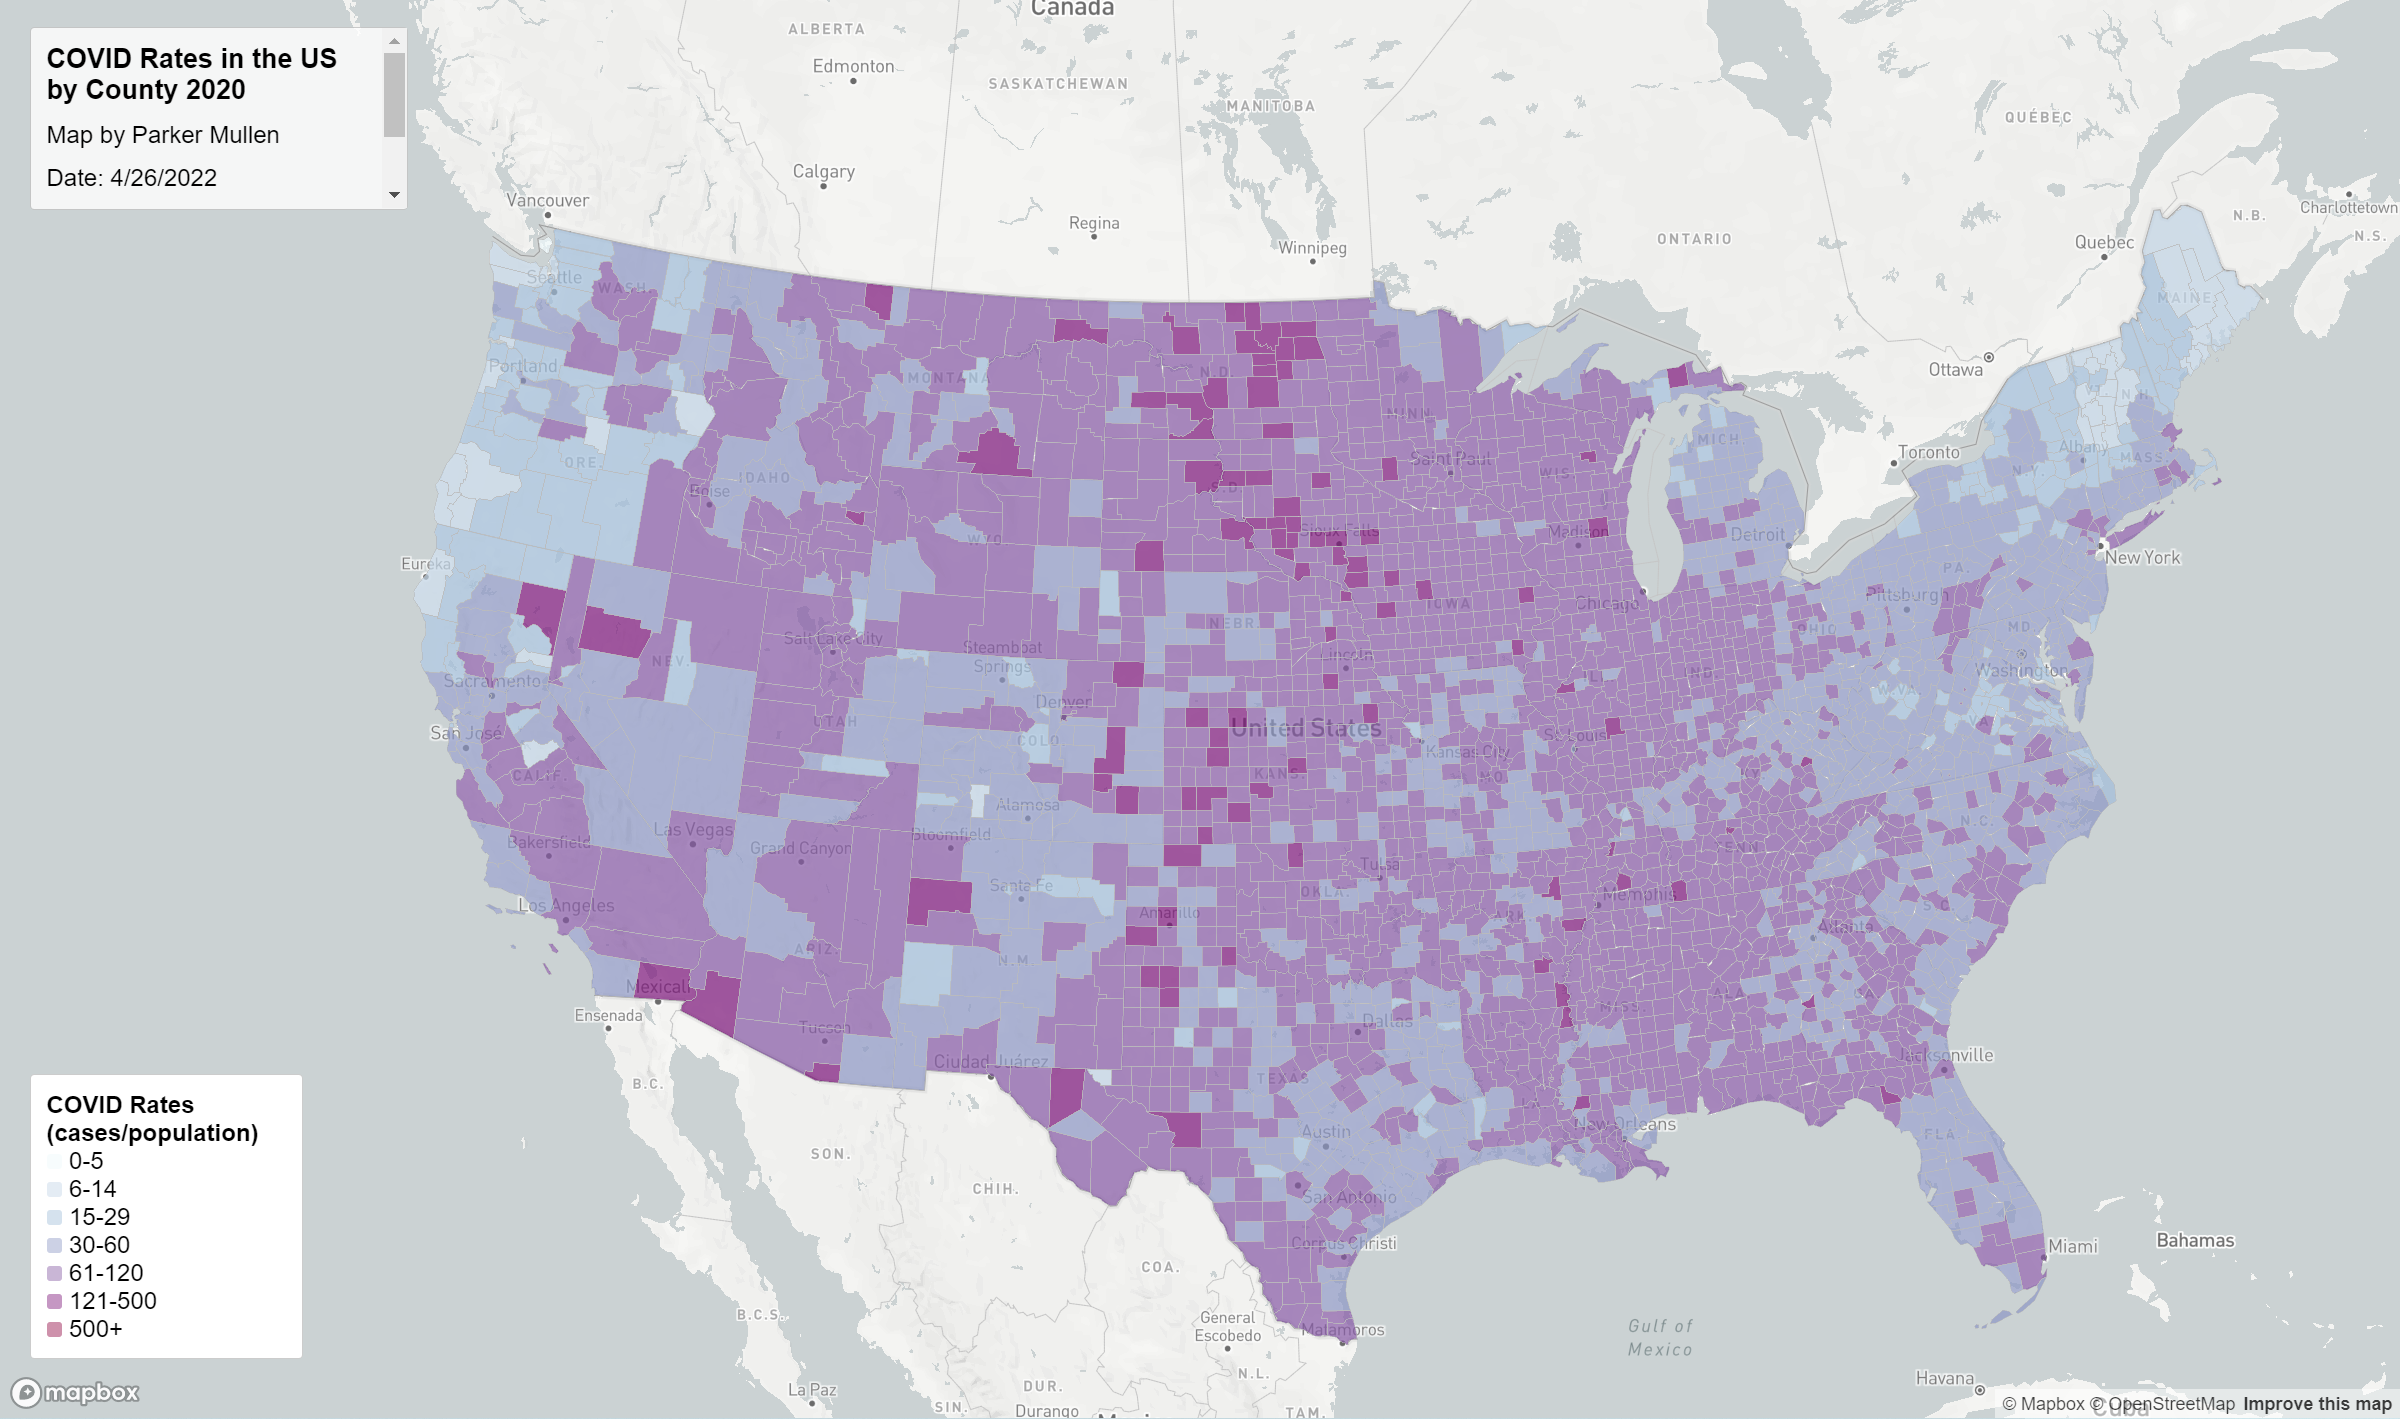
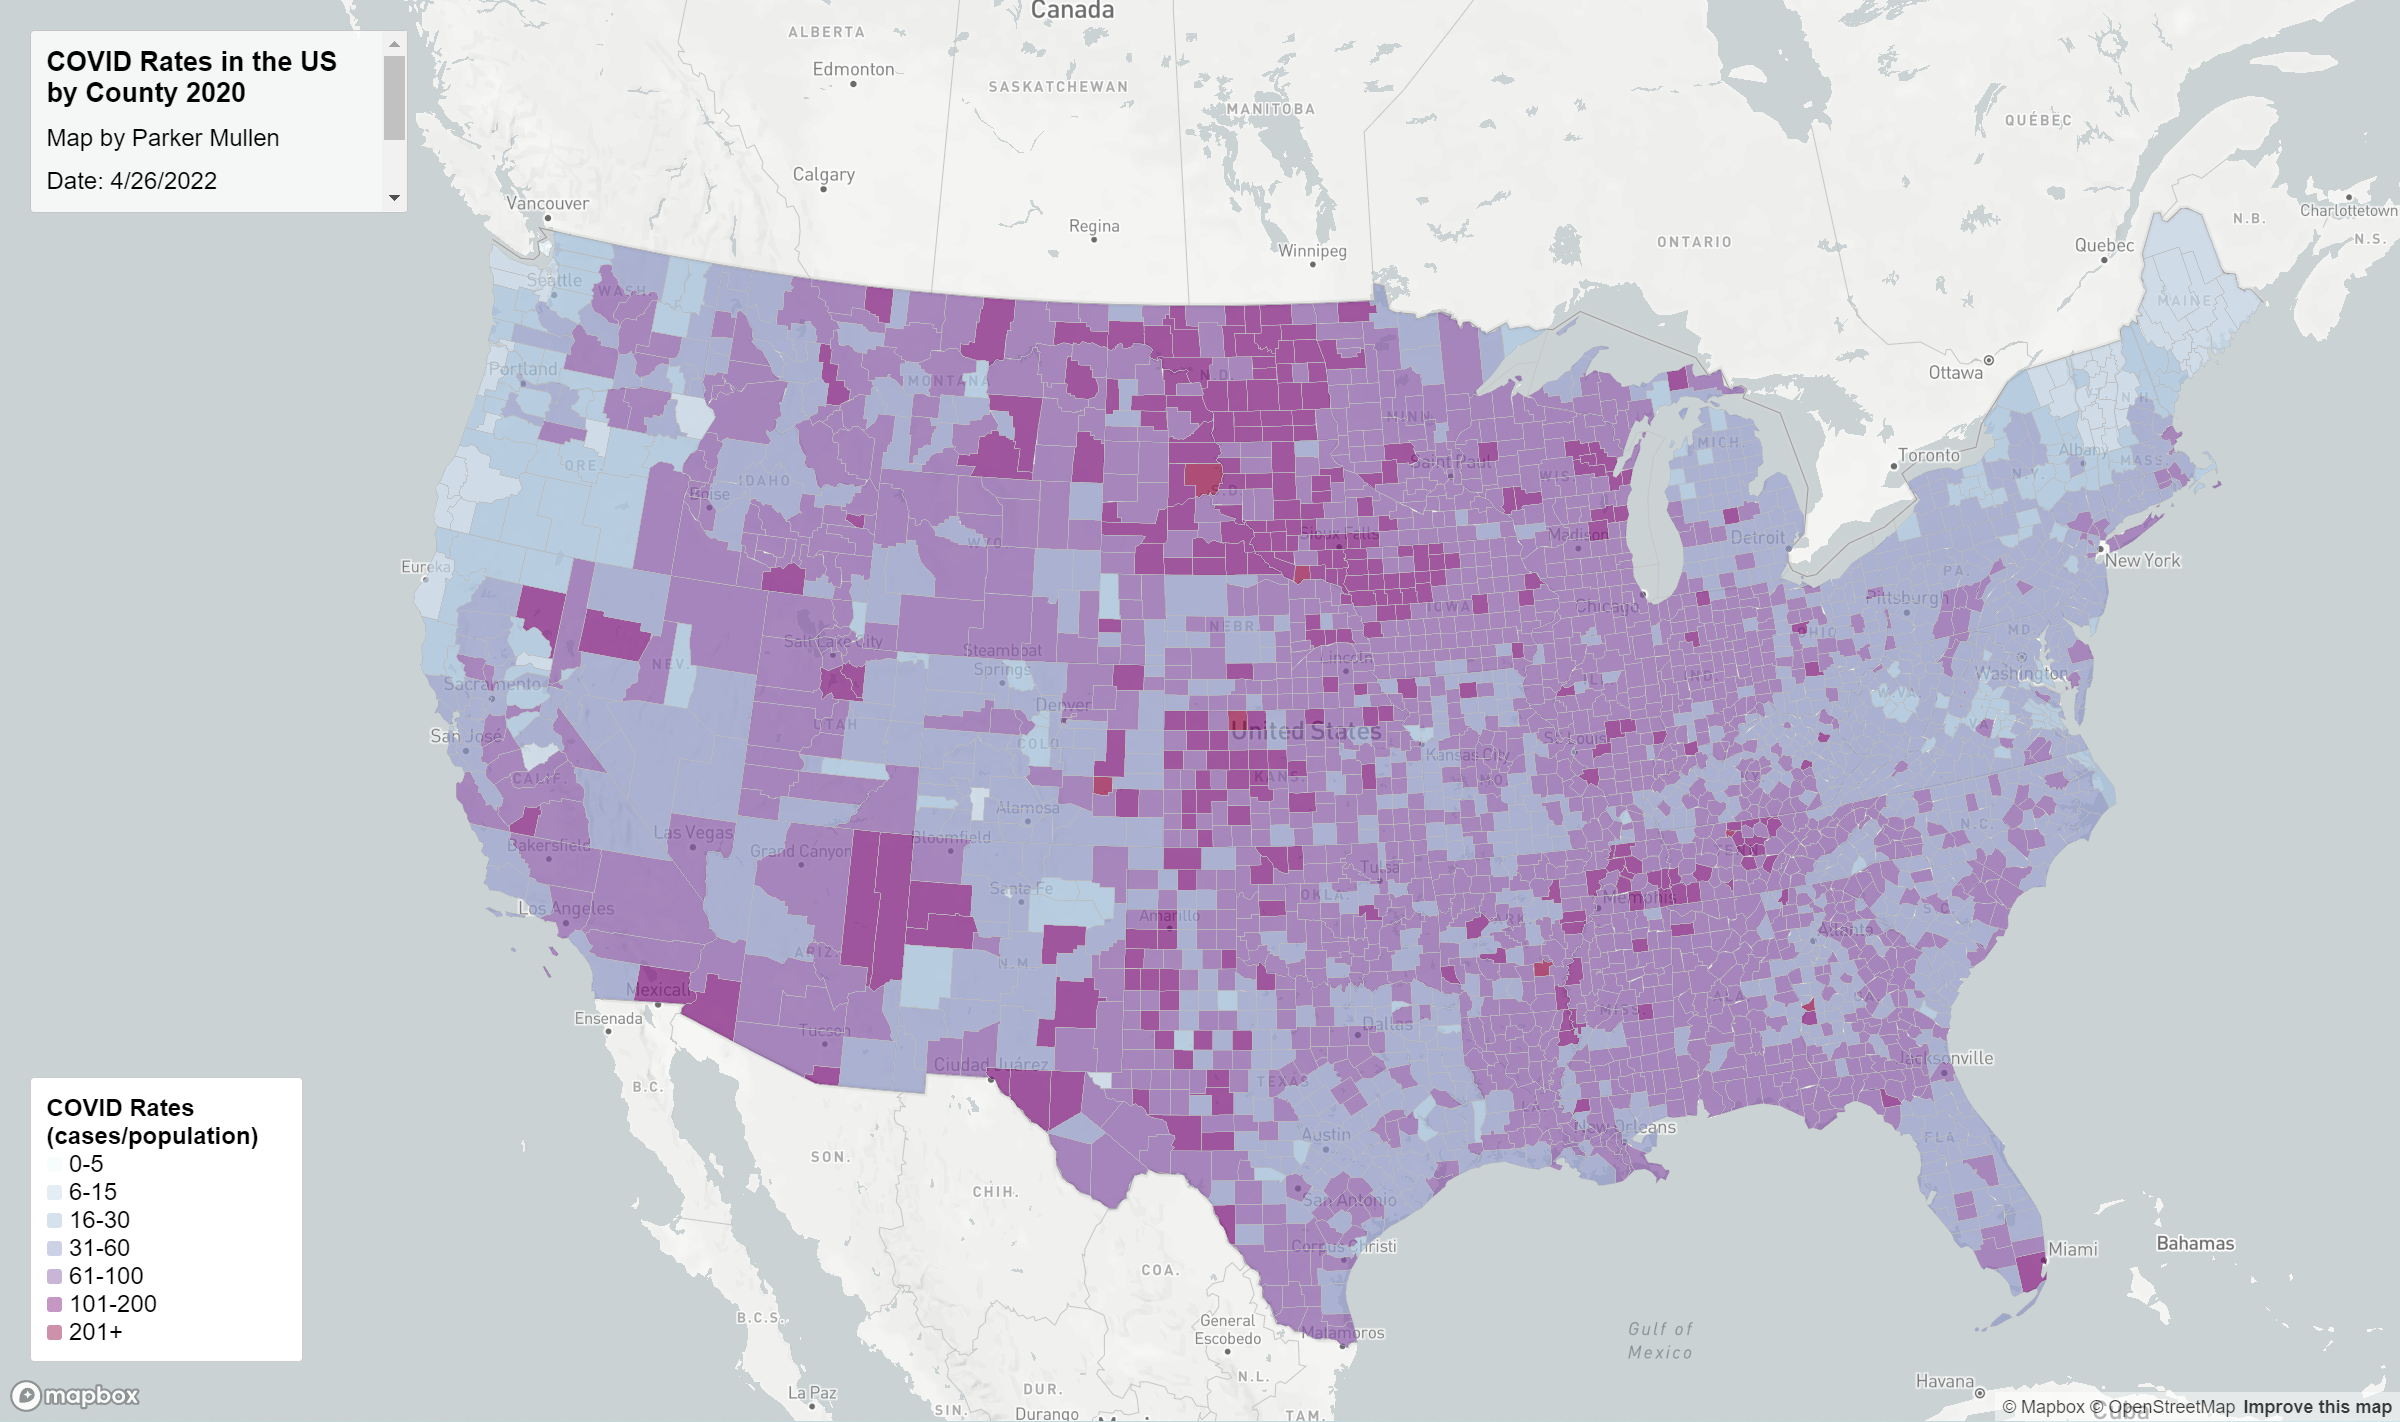
updating symbology

diff --git a/map1.html b/map1.html
@@ -125,19 +125,19 @@
                         5,           // 1st class range: 0<=5
 
                         '#bfd3e6',   // symbology
-                        14,          // 2nd class range: 5<=14
+                        15,          // 2nd class range: 5<=15
 
                         '#9ebcda',   // symbology
-                        29,          // 3rd class range: 14<=29
+                        30,          // 3rd class range: 15<=30
 
                         '#8c96c6',   // symbology
-                        60,          // 4th class range: 29<=60
+                        60,          // 4th class range: 30<=60
 
                         '#8856a7',   // symbology
-                        120,         // 5th class range: 60<=120
+                        100,         // 5th class range: 60<=100
 
                         '#810f7c',   // symbology
-                        500,         // 6th class range: 120<=500
+                        200,         // 6th class range: 100<=200
                         '#980043'
                     ],
                     'fill-outline-color': '#BBBBBB',
@@ -157,12 +157,12 @@
 
         const layers = [
             '0-5',
-            '6-14',
-            '15-29',
-            '30-60',
-            '61-120',
-            '121-500',
-            '500+'
+            '6-15',
+            '16-30',
+            '31-60',
+            '61-100',
+            '101-200',
+            '201+'
         ];
 
         const colors = [
